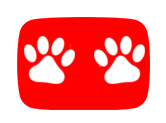
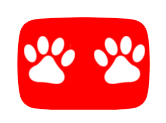
New Pretty

diff --git a/Youtube-Paws Angular/src/app/components/nav/nav.component.html b/Youtube-Paws Angular/src/app/components/nav/nav.component.html
@@ -1,5 +1,5 @@
-<nav class="navbar navbar-light" style="background-color: #fc0b0b;">
-  <a class="navbar-brand" href="#"><img src="../../../assets/mytubepaws.jpg" alt="Youtube-Paws"></a>
+<nav class="navbar navbar-light" style="background-color: rgb(170, 169, 169);">
+  <a class="navbar-brand" href="#"><img src="../../../assets/mytubepaws.jpg" height="80" width=auto alt="Youtube-Paws"></a>
   <button class="navbar-toggler" type="button" data-toggle="collapse" data-target="#navbarText" aria-controls="navbarText"
     aria-expanded="false" aria-label="Toggle navigation">
     <span class="navbar-toggler-icon"></span>
